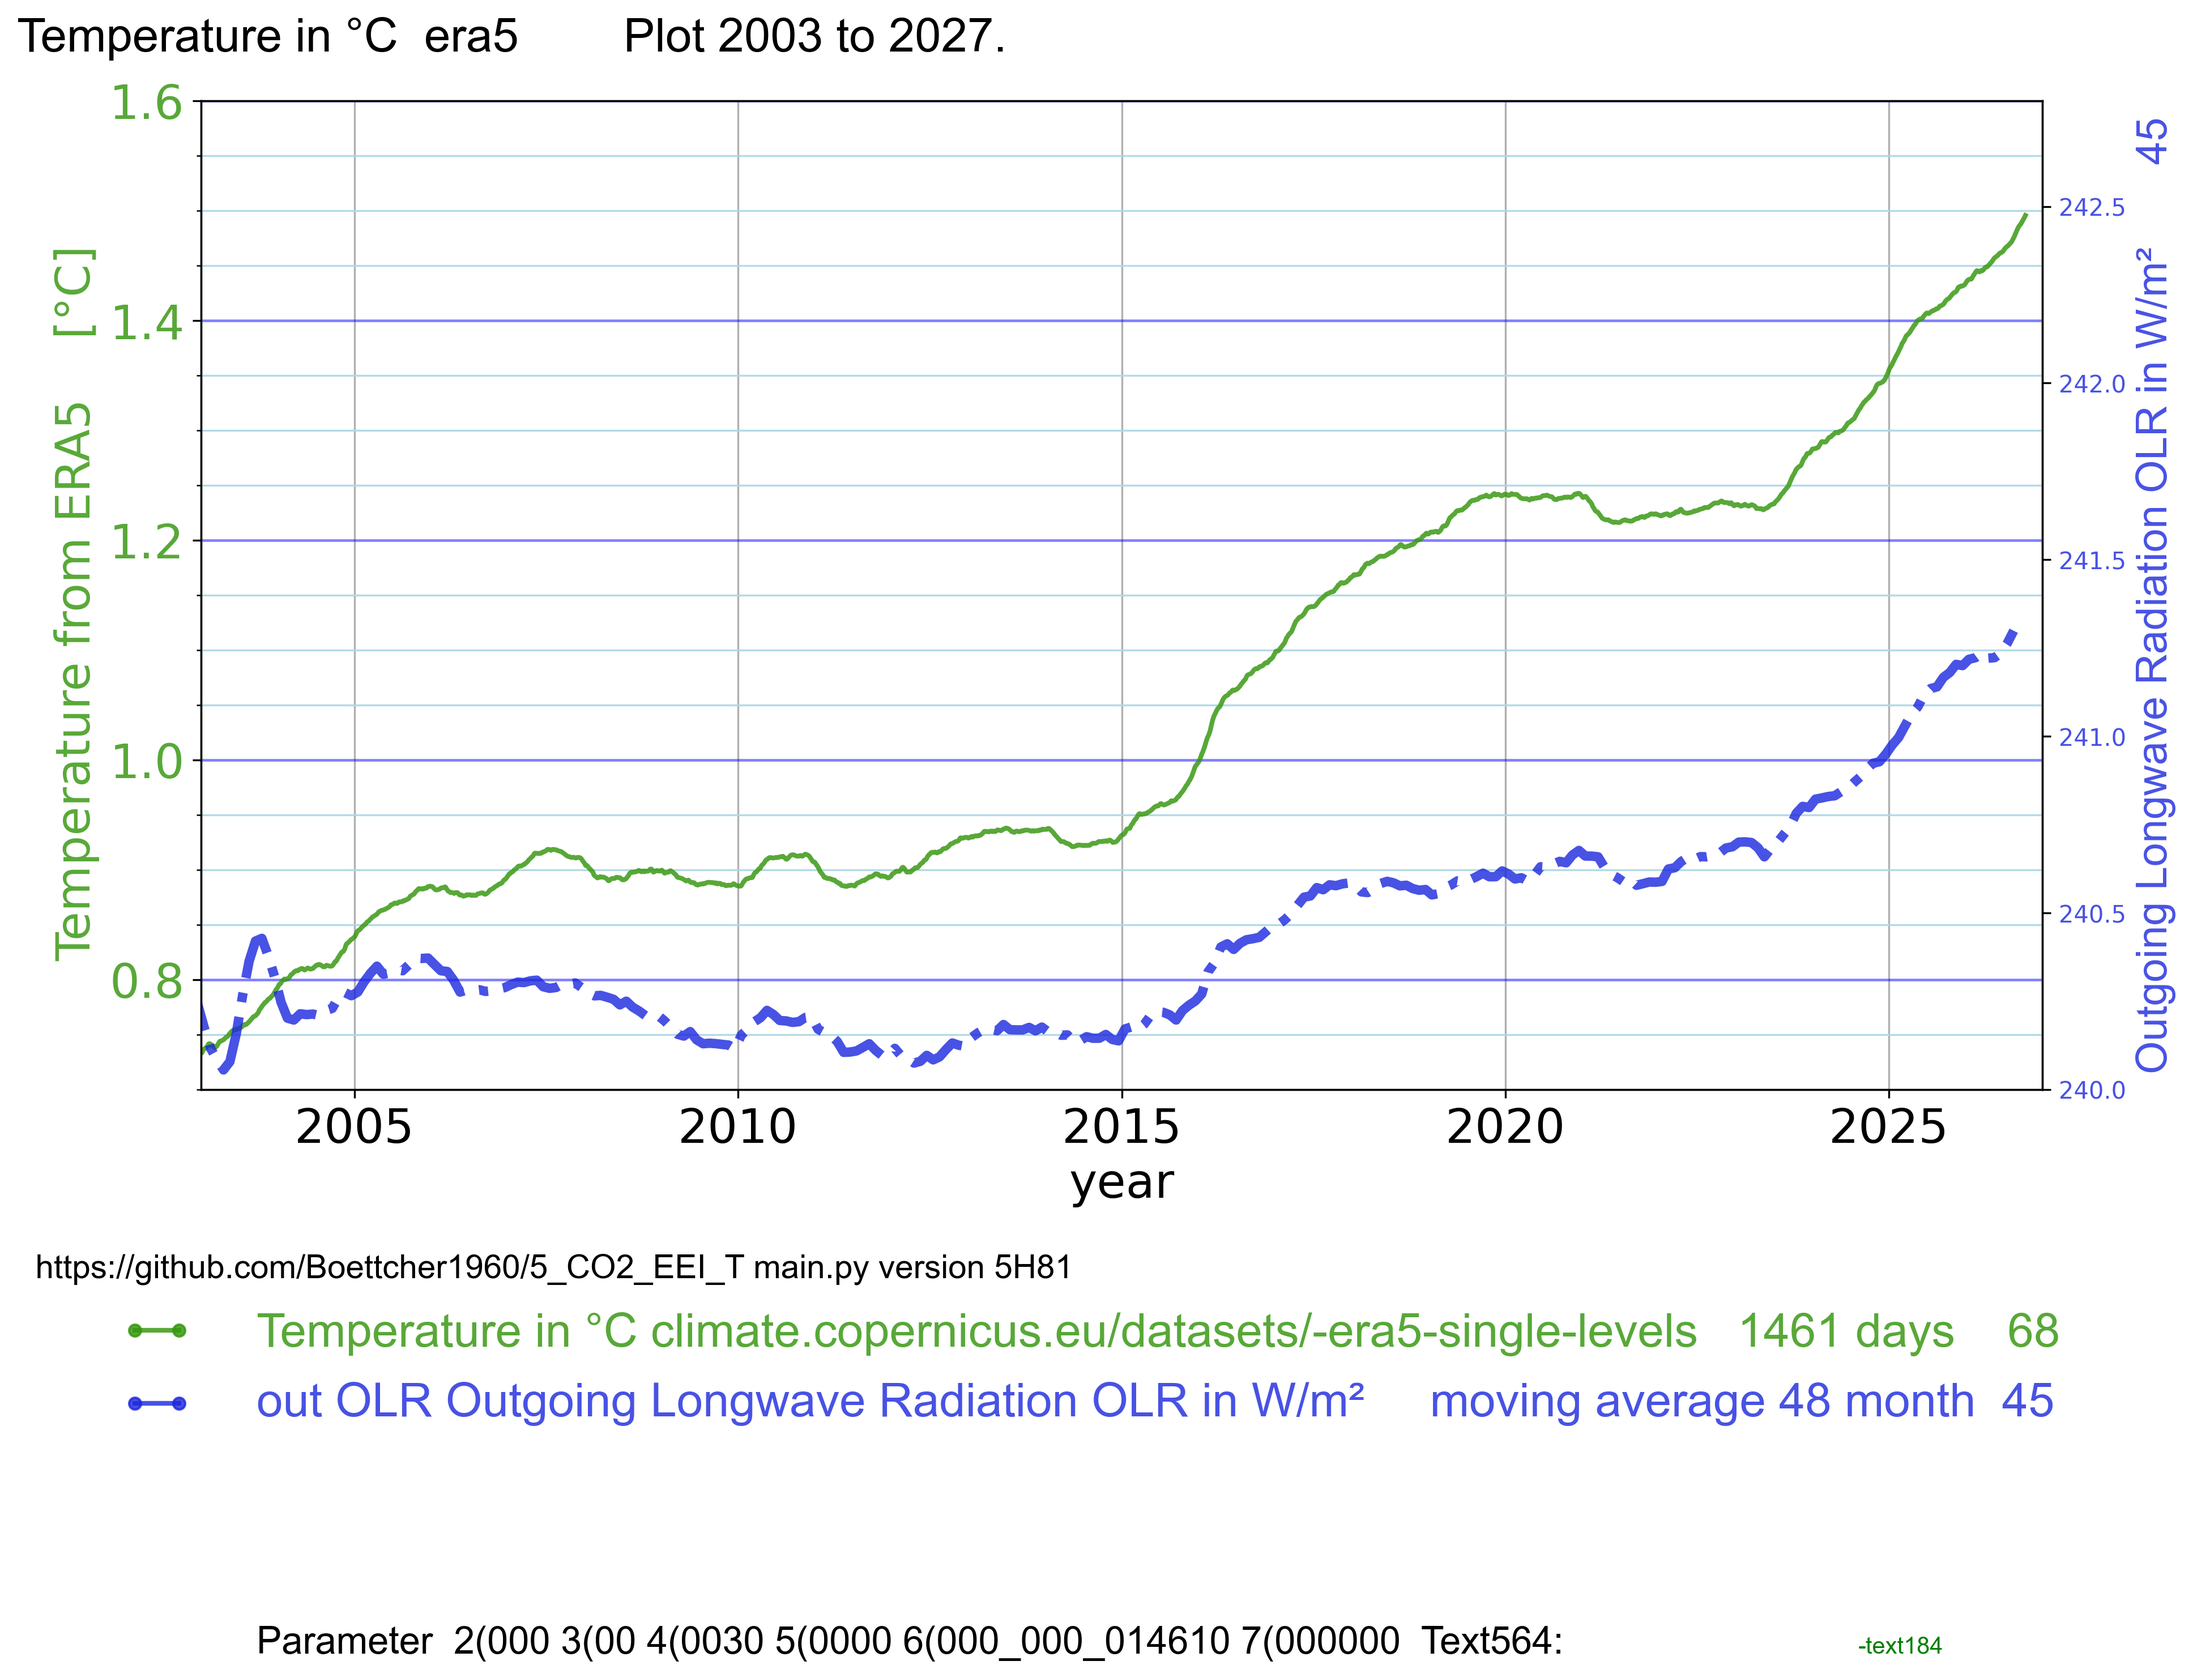
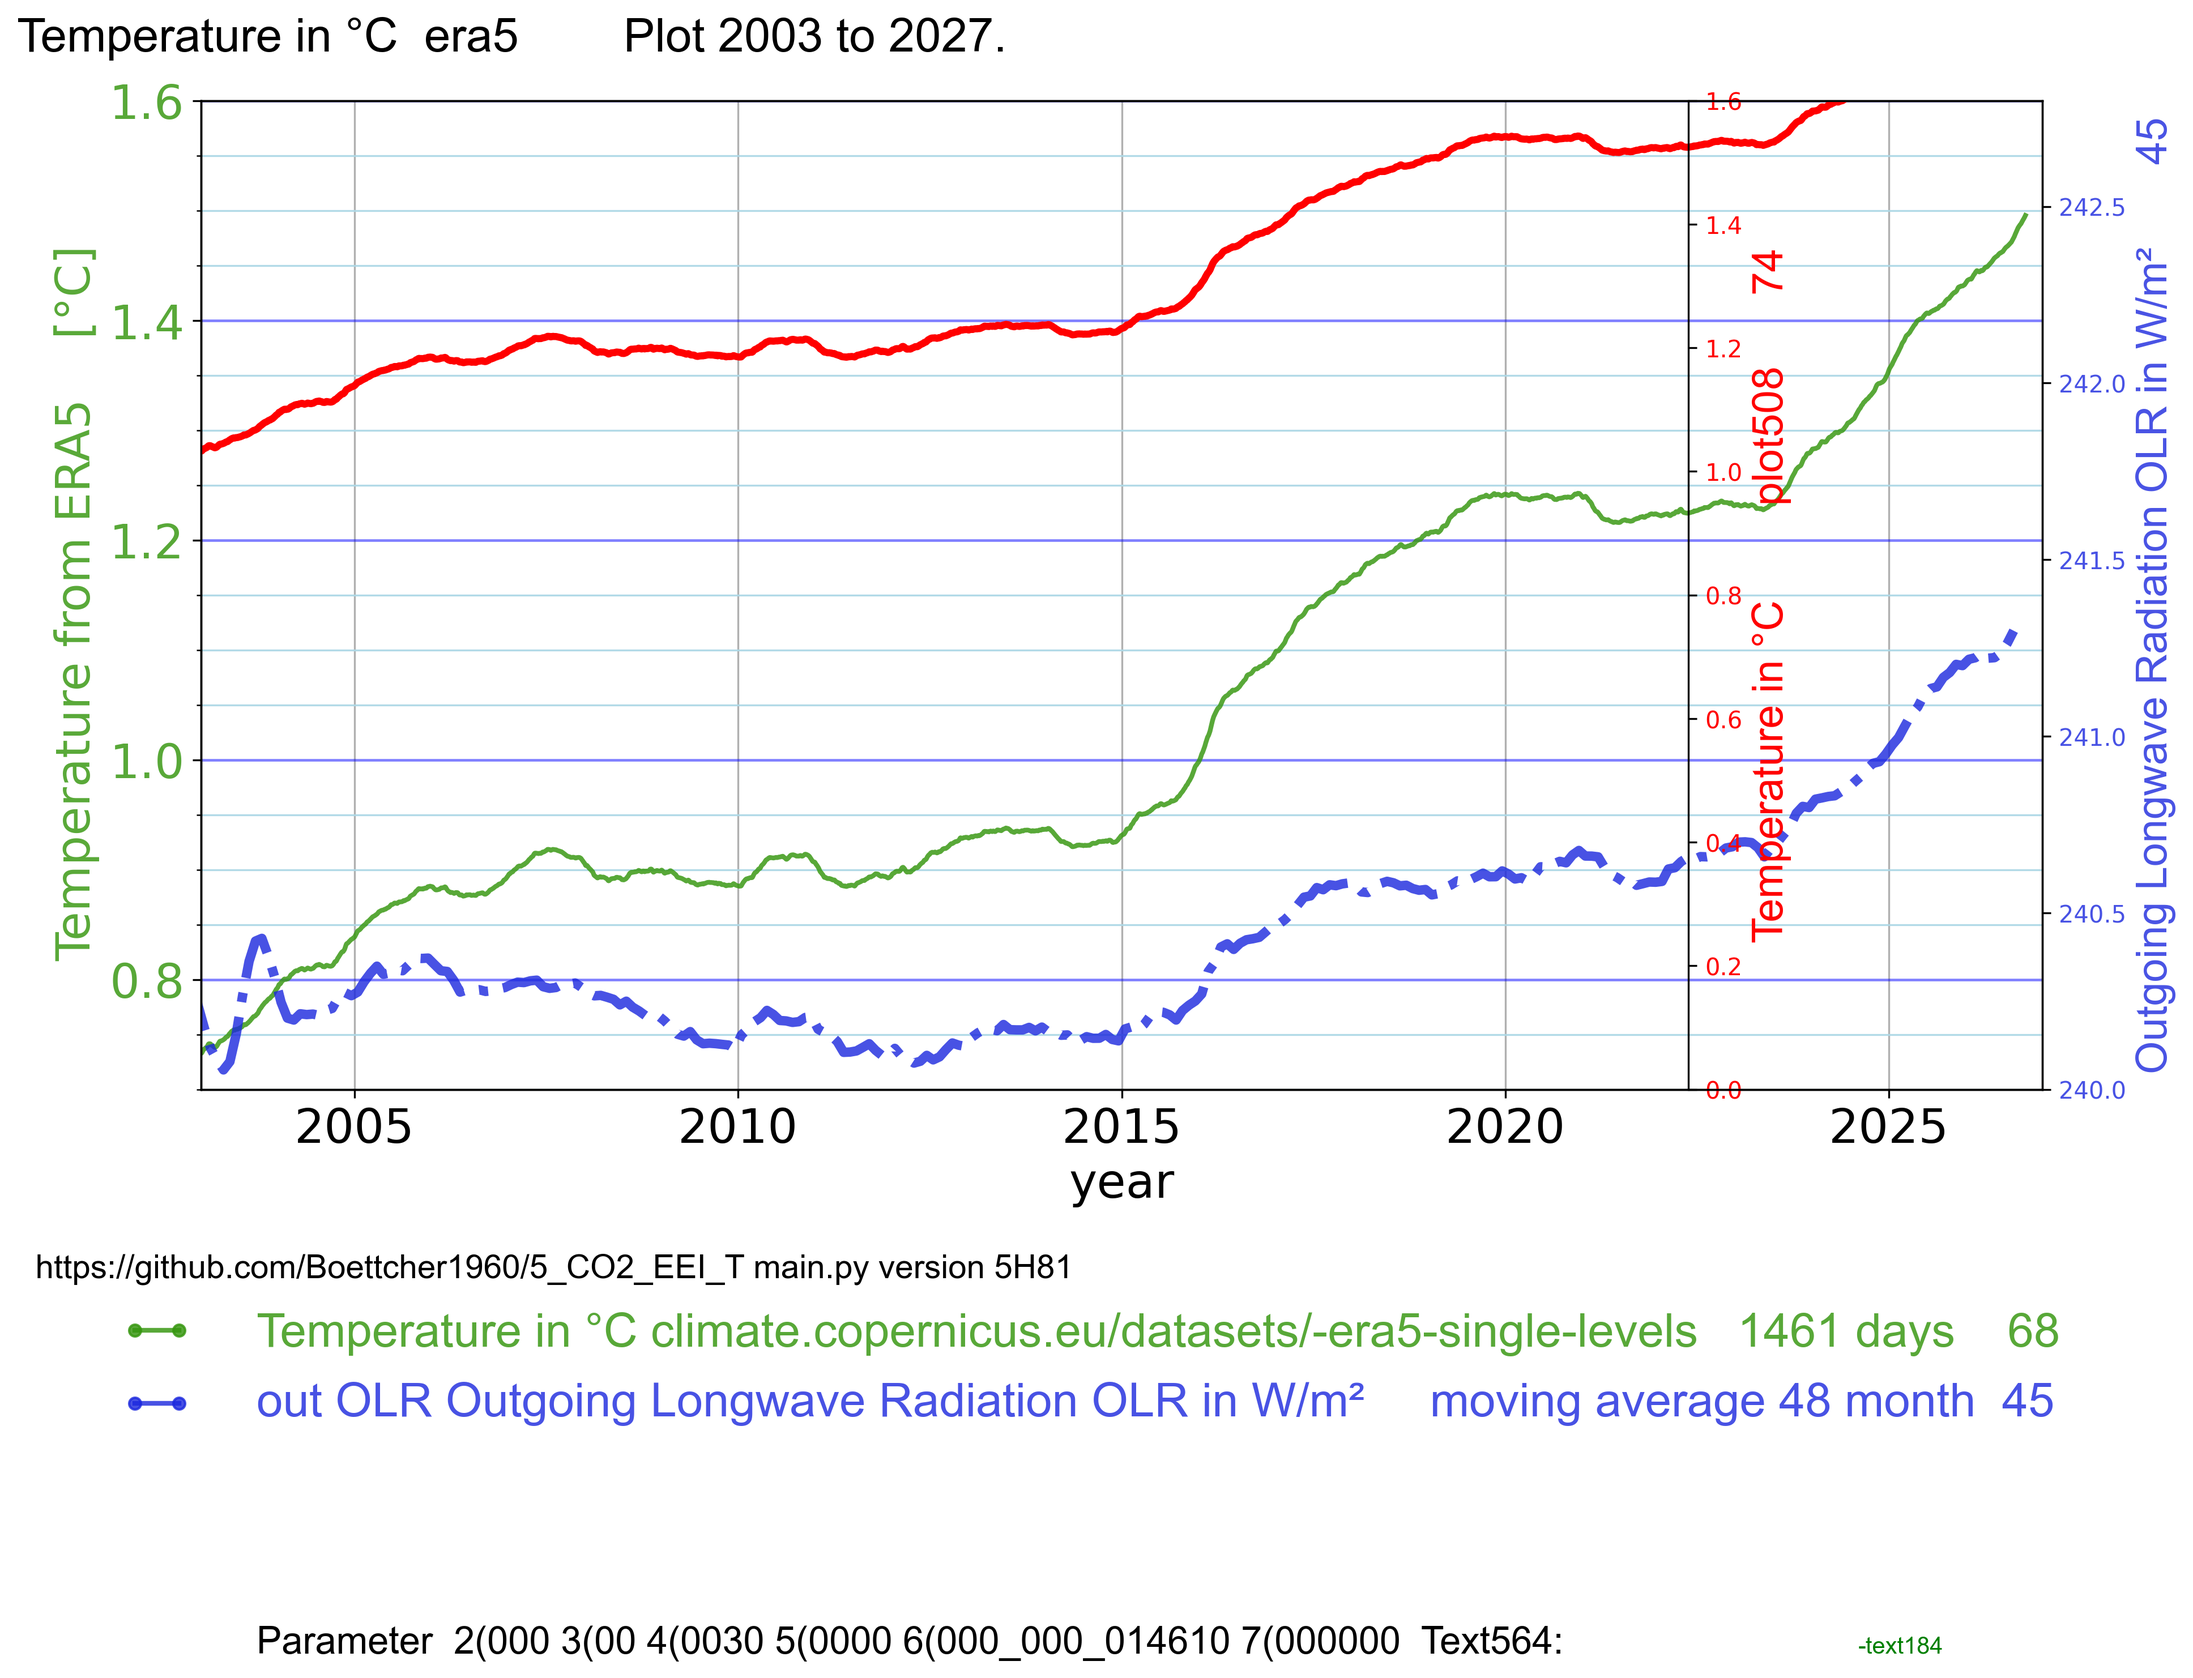
h82

diff --git a/plotting.py b/plotting.py
@@ -1042,6 +1042,22 @@ def plot_9_create_all_plots(ax1, data):
            ax47.set_ylim(y_47min, y_47max)
            if plot47_albedo48 > 2:
               plot8_right_y_axe_for_47( ax47 , 0 ) # 47.4 line 844
+    if plank48 > 0 : # 74.4
+        # if plank48 == 2:
+           # Plot on the left axis (ax1) instead of creating a right axis
+           #ax1.plot(data['gis_temp']["Year74"], data['gis_temp']["GIS_temp"]+0.3, '-', 
+           #       label="T GIS K74", color=c74, linewidth=3)
+           # The left axis is already configured in plot_1_axe
+        # else:
+           ax48 = ax1.twinx()
+           ax48.plot(data['plank4']["decimal_year"], data['plank4']["temp_average"]+0.3, '-', 
+                  label="T plank4", color=c74, linewidth=3)
+           ax48.tick_params(axis="y", labelcolor=c74)
+           ax48.set_ylim(y_74min, y_74max)
+           if plank48 > 2:
+              plot8_right_y_axe_for_T_74(ax48,0) # 74.5 line 500
+
+
 
     # plot52_delta_CO2_red_bars, Mauna Loa delta ,  plot_9_create_all_plots() ,   line 630
 

diff --git a/config.py b/config.py
@@ -36,7 +36,7 @@ part44_ceres_eei   = 0  # 47, 3, 48,   is local
 plot45_OLR         = 3 # 2, 3, 4 looks like simons 48 months. Outgoing Longwave Radiation OLR updated to 2026_07
 plot46_ASR         = 0 # 2, 3 ASR Absorbed Solar Radiation from _CERES_ASR 48 months average [W/m2]
 plot47_albedo48    = 0  # 4  
-plank48_= 5 # plank feedback is 68_ERA temperature * 3.22
+plank48 = 5 # plank feedback is 68_ERA temperature * 3.22
 
 plot52_delta_CO2_red_bars = 0 # 3 (3=print numbers)
 plot53_CO2_orange2025 = 0 # no curve is visible 3, 4

diff --git a/main.py b/main.py
@@ -336,6 +336,9 @@ def load_plot_data():
         data['ceres_47'] = pd.read_csv("read_csv/_47_albedo_48month_2026_08.csv")
         if print_debug > 9:
            print(f"main_316: 47.2 read ={plot47_albedo48}")
+    # Load 
+    if plank48 > 0: #  pd.read_csv("work/_48_era5_in.csv")
+        data['plank4'] = pd.read_csv("work/_48_era5_in.csv")
 
     # part 5.2 plot52_delta_CO2_red_bars
     # part 5.3 plot53_CO2_orange2025

diff --git a/models.py b/models.py
@@ -275,7 +275,9 @@ def T_model76(t):
 #
 #
 #
-
+def load48_plank_T():
+    return pd.read_csv("work/_48_era5_in.csv")
+#
 
 
 
